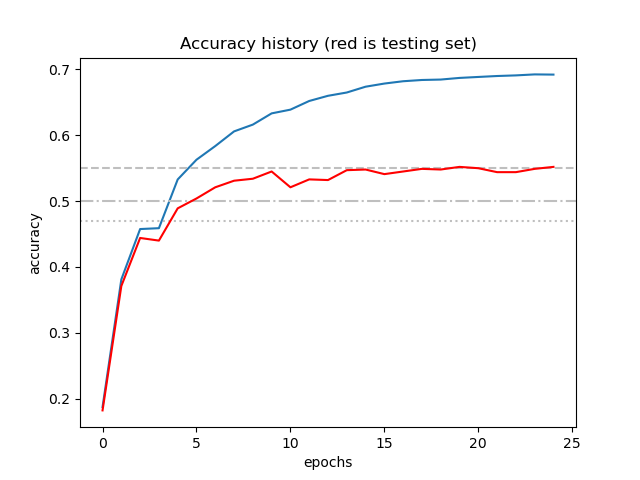
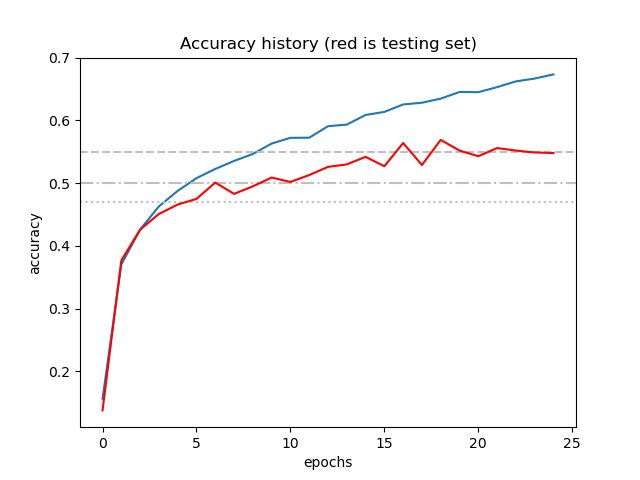
almost done

diff --git a/task7/cifar10-nn.py b/task7/cifar10-nn.py
@@ -1,10 +1,12 @@
+import copy
+
 import numpy as np
 import matplotlib.pyplot as plt
 import helper
 import os
 import plotly
 
-np.random.seed(1)
+
 
 
 class TwoLayerNeuralNetwork:
@@ -35,6 +37,7 @@ class TwoLayerNeuralNetwork:
         :param std: Skalierungsfaktoren für die Initialisierung (muss klein sein)
         :return:
         """
+        np.random.seed(1)
         self.W1 = std * np.random.randn(input_size, hidden_size)
         self.b1 = std * np.random.randn(1, hidden_size)
         self.W2 = std * np.random.randn(hidden_size, output_size)
@@ -244,6 +247,23 @@ class TwoLayerNeuralNetwork:
         return y_pred
 
 
+def plot_interactible(data):
+    fig = plotly.graph_objs.Figure(data=
+    plotly.graph_objs.Parcoords(
+        line_color='blue',
+        dimensions=list([
+            dict(label='hidden_size', values=data[1:, 0]),
+            dict(label='num_iter', values=data[1:, 1]),
+            dict(label='batch_size', values=data[1:, 2]),
+            dict(label='learning_rate', values=data[1:, 3]),
+            dict(label='learning_rate_decay', values=data[1:, 4]),
+            dict(label='accuracy', values=data[1:, 5])
+        ])
+    ))
+    fig.show()
+    fig.write_html("file{0}.html".format(data.size))
+
+
 if __name__ == '__main__':
     X_train, y_train, X_val, y_val = helper.prepare_CIFAR10_images()
     # Laden der Bilder. Hinweis - wir nutzen nur die Trainigsbilder zum Trainieren und die Validierungsbilder zum Testen
@@ -272,7 +292,7 @@ if __name__ == '__main__':
     batch_size = 300  # Eingabeanzahl der Bilder
     learning_rate = 0.001  # Lernrate
     learning_rate_decay = 0.95  # Lernratenabschwächung
-    """
+
     net = TwoLayerNeuralNetwork(input_size, hidden_size, num_classes)  # reset network
     stats = net.train(X_train, y_train, X_val, y_val,
                       num_iters=num_iter, batch_size=batch_size,
@@ -286,37 +306,21 @@ if __name__ == '__main__':
     helper.plot_net_weights(net)
     helper.plot_accuracy(stats)
     helper.plot_loss(stats)
-    """
-    data = np.array([[0, 0, 0, 0, 0, 0]])
-    """
-    for lr in range(3000, 4500, 500):
-        learning_rate = ...
-        for ld in range(3000, 4500, 500):
-            learning_rate_decay = ...
-            """
-    for num_iter in range(3000, 4500, 500):
-        for hidden_size in range(50, 300, 50):
-            for batch_size in range(200, 500, 50):
-                net = TwoLayerNeuralNetwork(input_size, hidden_size, num_classes)  # reset network
-                stats = net.train(X_train, y_train, X_val, y_val,
-                                  num_iters=num_iter, batch_size=batch_size,
-                                  learning_rate=learning_rate, learning_rate_decay=learning_rate_decay,
-                                  verbose=False)
-                print('Final validation accuracy: ', stats['val_acc_history'][-1])
-                data = np.vstack([data, [hidden_size, num_iter, batch_size, learning_rate, learning_rate_decay,
-                                         stats['val_acc_history'][-1]]])
 
-    fig = plotly.graph_objs.Figure(data=
-    plotly.graph_objs.Parcoords(
-        line_color='blue',
-        dimensions=list([
-            dict(label='hidden_size', values=data[1:, 0]),
-            dict(label='num_iter', values=data[1:, 1]),
-            dict(label='batch_size', values=data[1:, 2]),
-            dict(label='learning_rate', values=data[1:, 3]),
-            dict(label='learning_rate_decay', values=data[:, 4]),
-            dict(label='accuracy', values=data[1:, 5])
-        ])
-    )
-    )
-    fig.show()
+    data = np.array([[0, 0, 0, 0, 0, 0]])
+
+    for learning_rate in np.arange(0.0006, 0.0014, 0.0002):
+        for learning_rate_decay in np.arange(0.90, 0.99, 0.01):
+            for num_iter in range(3000, 4500, 500):
+                for hidden_size in range(50, 300, 50):
+                    for batch_size in range(200, 500, 50):
+                        np.random.seed(1)
+                        net = TwoLayerNeuralNetwork(input_size, hidden_size, num_classes)  # reset network
+                        stats = net.train(X_train, y_train, X_val, y_val,
+                                          num_iters=num_iter, batch_size=batch_size,
+                                          learning_rate=learning_rate, learning_rate_decay=learning_rate_decay,
+                                          verbose=False)
+                        print('Final validation accuracy: ', stats['val_acc_history'][-1])
+                        data = np.vstack([data, [hidden_size, num_iter, batch_size, learning_rate, learning_rate_decay,
+                                                 stats['val_acc_history'][-1]]])
+                plot_interactible(data)
